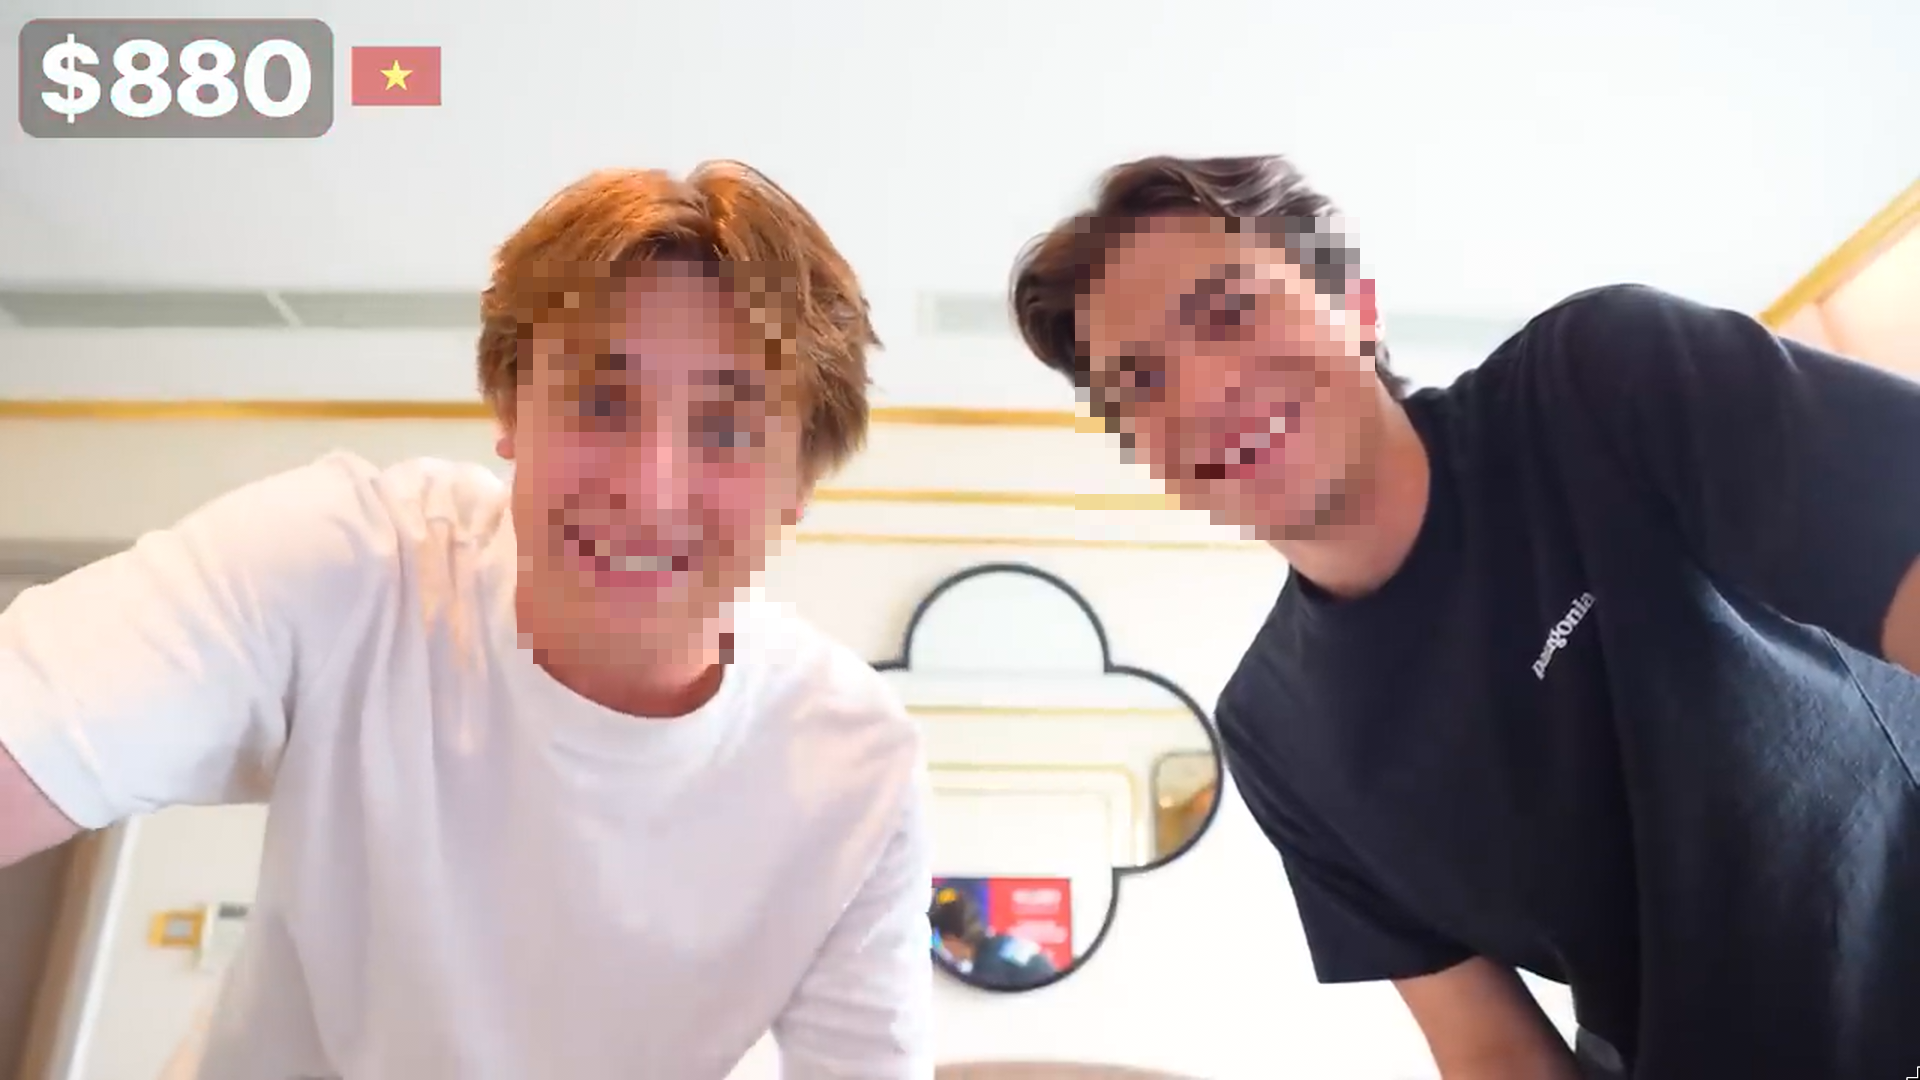
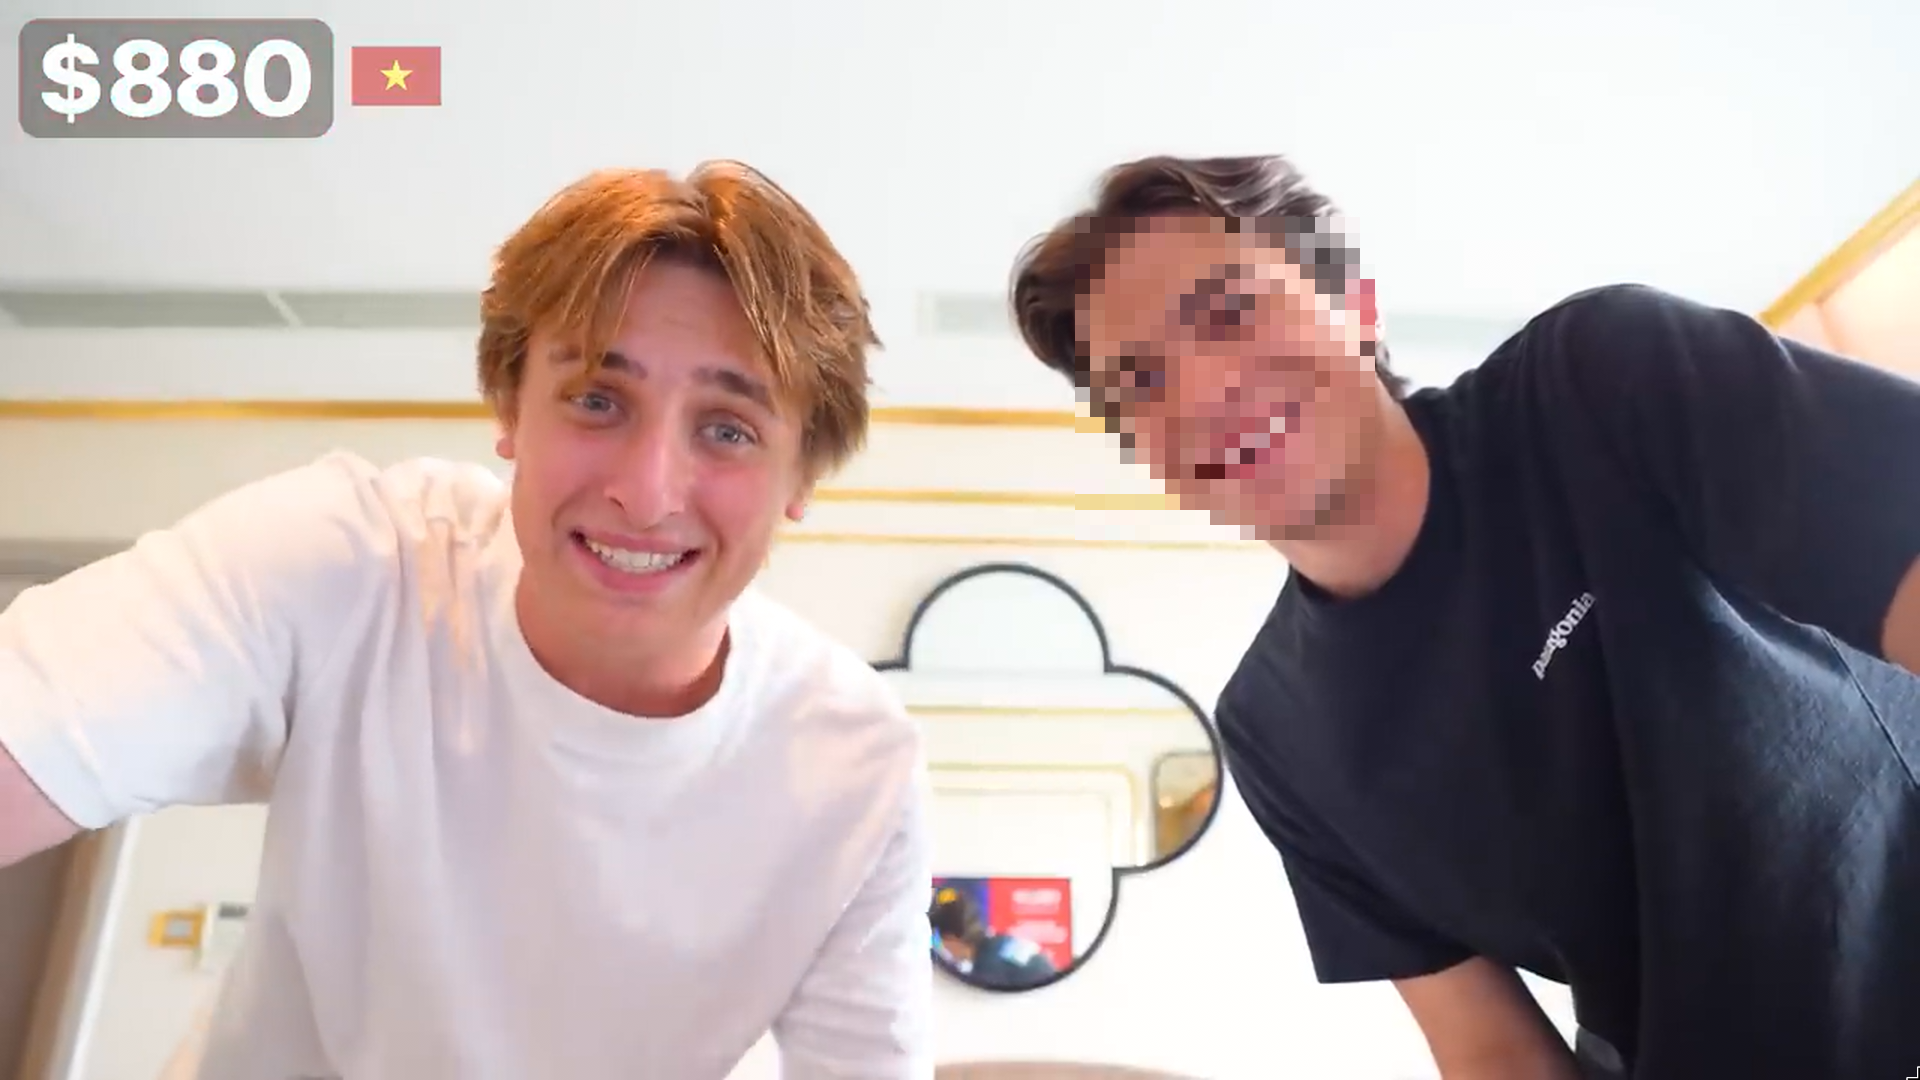
fix imgs

diff --git a/src/features/marketing/components/hero.tsx b/src/features/marketing/components/hero.tsx
@@ -117,7 +117,7 @@ export default function Hero() {
               <img
                 src="/after.png"
                 alt="Blurred, strangers obscured"
-                className="h-full w-full object-cover blur-md"
+                className="h-full w-full object-cover "
                 draggable={false}
               />
             </div>
